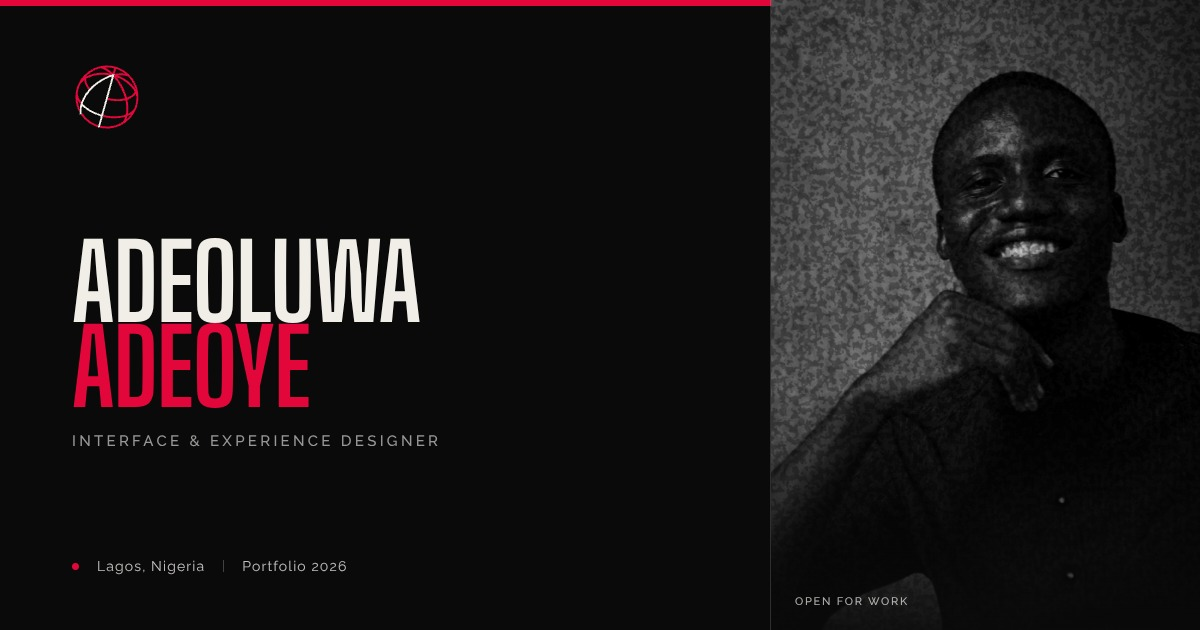
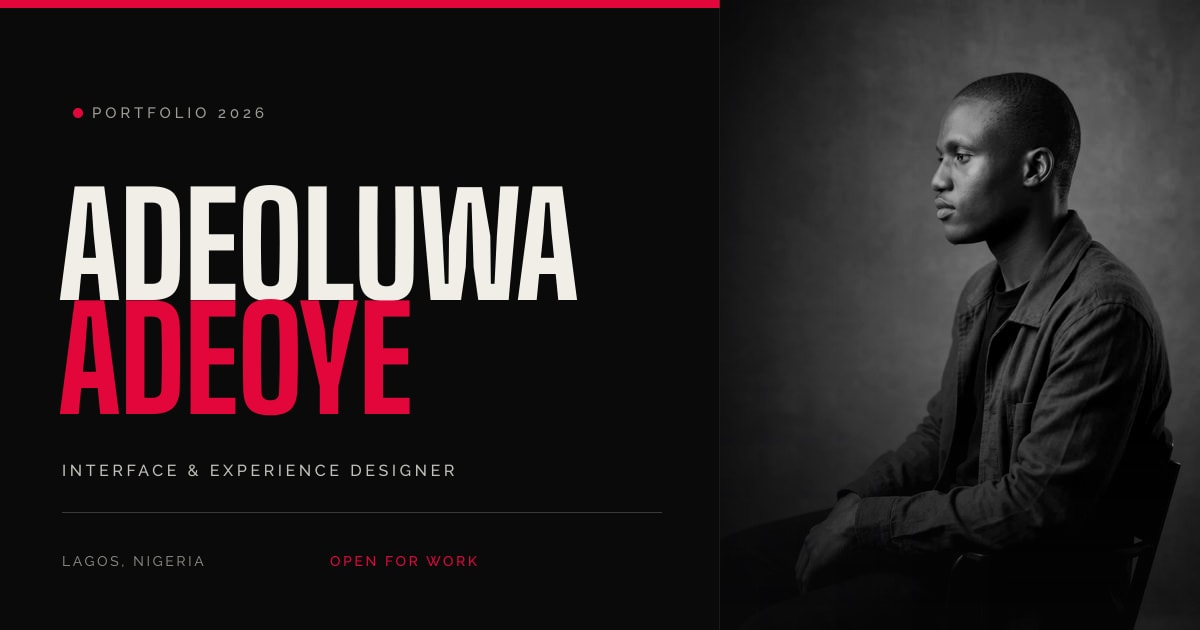
Update the portrait, share card and project rows from the latest feedback
Swap in the new studio portrait, rebuild the link preview around it and the
two brand fonts, restore the static project thumbnails in the selected work
list, and carry through the header, spacing, cursor and contact refinements.

🤖 Generated with Codebuff

diff --git a/src/pages/Home.jsx b/src/pages/Home.jsx
@@ -6,7 +6,7 @@ import Reveal from "../components/Reveal";
 import ProjectIndex from "../components/ProjectIndex";
 import CTA from "../components/CTA";
 import { projects } from "../data/projects";
-import { capabilities, credentia, experience, site } from "../site";
+import { capabilities, credentia, experience } from "../site";
 import { usePageMeta } from "../hooks/usePageMeta";
 
 function Word({ children, progress, range }) {
@@ -49,16 +49,6 @@ export default function Home() {
       <section className="hero">
         <h1 className="sr-only">Adeoluwa Adeoye, Interface &amp; Experience Designer</h1>
 
-        <div className="shell hero__top">
-          <p className="hero__hello">
-            Hi, I&apos;m Adeoluwa, <span className="serif">interface &amp; experience</span>{" "}
-            designer.
-          </p>
-          <p className="hero__place">
-            Lagos, Nigeria<span className="hero__place-sep">/</span>Portfolio 2026
-          </p>
-        </div>
-
         <div className="hero__stage">
           <div className="hero__type">
             <div className="hero__line">
@@ -91,27 +81,11 @@ export default function Home() {
             <div className="hero__portrait-frame">
               <img
                 src="/assets/portrait.jpg"
-                alt="Adeoluwa Adeoye at his desk in Lagos"
+                alt="Adeoluwa Adeoye, interface and experience designer"
                 fetchPriority="high"
               />
             </div>
-            <figcaption>
-              <span>Lagos, NG</span>
-              <span aria-hidden="true">✳</span>
-            </figcaption>
           </figure>
-        </div>
-
-        <div className="shell hero__foot">
-          <p className="hero__intro">
-            I design digital products where clarity, motion and craft meet: interfaces that make
-            complex things feel obvious, and simple things feel considered.
-          </p>
-          <a className="scroll-cue" href="#work">
-            <span>Scroll to explore</span>
-            <span className="scroll-cue__line" />
-            <span aria-hidden="true">↓</span>
-          </a>
         </div>
       </section>
 
@@ -120,18 +94,13 @@ export default function Home() {
           <p className="eyebrow">(01) About</p>
           <div className="intro__content">
             <Reveal as="p" className="intro__statement">
-              I&apos;m a designer who likes the <span className="serif">in&#8209;between</span>:
-              the place where a business problem becomes a flow, a flow becomes an interface, and
-              an interface starts to feel like a product people trust.
+              I&apos;m a designer who likes the{" "}
+              <span className="serif serif--plain">in&#8209;between</span>: the place where a
+              business problem becomes a flow, a flow becomes an interface, and an interface starts
+              to feel like a product people trust.
             </Reveal>
 
             <Reveal className="intro__row" delay={120}>
-              <p className="intro__copy">
-                Curiosity brought me here: a habit of asking how things work, why people behave
-                the way they do, and what happens if we try it another way. I work across
-                experience design, interface systems and graphic design, from early-stage ideas
-                to live platforms.
-              </p>
               <Link to="/about" className="link-arrow" data-cursor="Read">
                 More about me <span>↗</span>
               </Link>

diff --git a/src/components/Cursor.jsx b/src/components/Cursor.jsx
@@ -2,11 +2,12 @@ import { useEffect, useRef, useState } from "react";
 
 export default function Cursor() {
   const dotRef = useRef(null);
-  const ringRef = useRef(null);
+  const ringNodeRef = useRef(null);
   const [enabled, setEnabled] = useState(false);
   const [label, setLabel] = useState("");
   const [active, setActive] = useState(false);
   const [moved, setMoved] = useState(false);
+  const [fast, setFast] = useState(false);
 
   useEffect(() => {
     if (!window.matchMedia("(pointer: fine)").matches) return undefined;
@@ -15,6 +16,8 @@ export default function Cursor() {
 
     const pointer = { x: window.innerWidth / 2, y: window.innerHeight / 2 };
     const ring = { x: pointer.x, y: pointer.y };
+    let last = { x: pointer.x, y: pointer.y, t: performance.now() };
+    let fastTimer;
     let frame;
 
     const onMove = (event) => {
@@ -24,13 +27,27 @@ export default function Cursor() {
       if (dotRef.current) {
         dotRef.current.style.transform = `translate3d(${pointer.x}px, ${pointer.y}px, 0)`;
       }
+
+      // Speed check: flag a fast wiggle so the ring flares and stays findable.
+      const now = performance.now();
+      const dt = now - last.t;
+      if (dt > 0) {
+        const dist = Math.hypot(pointer.x - last.x, pointer.y - last.y);
+        const speed = dist / dt; // px per ms
+        if (speed > 1.1) {
+          setFast(true);
+          window.clearTimeout(fastTimer);
+          fastTimer = window.setTimeout(() => setFast(false), 200);
+        }
+      }
+      last = { x: pointer.x, y: pointer.y, t: now };
     };
 
     const render = () => {
       ring.x += (pointer.x - ring.x) * 0.16;
       ring.y += (pointer.y - ring.y) * 0.16;
-      if (ringRef.current) {
-        ringRef.current.style.transform = `translate3d(${ring.x}px, ${ring.y}px, 0)`;
+      if (ringNodeRef.current) {
+        ringNodeRef.current.style.transform = `translate3d(${ring.x}px, ${ring.y}px, 0)`;
       }
       frame = requestAnimationFrame(render);
     };
@@ -49,11 +66,11 @@ export default function Cursor() {
 
     const onLeave = () => {
       if (dotRef.current) dotRef.current.style.opacity = "0";
-      if (ringRef.current) ringRef.current.style.opacity = "0";
+      if (ringNodeRef.current) ringNodeRef.current.style.opacity = "0";
     };
     const onEnter = () => {
       if (dotRef.current) dotRef.current.style.opacity = "1";
-      if (ringRef.current) ringRef.current.style.opacity = "1";
+      if (ringNodeRef.current) ringNodeRef.current.style.opacity = "1";
     };
 
     window.addEventListener("mousemove", onMove, { passive: true });
@@ -63,6 +80,7 @@ export default function Cursor() {
 
     return () => {
       cancelAnimationFrame(frame);
+      window.clearTimeout(fastTimer);
       window.removeEventListener("mousemove", onMove);
       document.removeEventListener("mouseover", onOver);
       document.removeEventListener("mouseleave", onLeave);
@@ -76,7 +94,10 @@ export default function Cursor() {
   return (
     <div className={`cursor ${moved ? "is-ready" : ""}`} aria-hidden="true">
       <div className="cursor__dot" ref={dotRef} />
-      <div className={`cursor__ring ${active ? "is-active" : ""}`} ref={ringRef}>
+      <div
+        className={`cursor__ring ${active ? "is-active" : ""} ${fast ? "is-fast" : ""}`}
+        ref={ringNodeRef}
+      >
         <span>{label}</span>
       </div>
     </div>

diff --git a/src/styles/main.css b/src/styles/main.css
@@ -237,7 +237,7 @@ button {
 }
 
 .section {
-  padding-block: clamp(56px, 6.5vw, 104px);
+  padding-block: clamp(74px, 9vw, 142px);
 }
 
 .serif {
@@ -254,6 +254,11 @@ button {
   font-style: italic;
   font-weight: 400;
   text-transform: none;
+}
+
+/* Same display face, but reads as body text (no accent colour). */
+.serif--plain {
+  color: inherit;
 }
 
 .asterisk {
@@ -513,6 +518,17 @@ button {
 .cursor__ring.is-active span {
   opacity: 1;
 }
+
+/* Fast "wiggle" flare so the pointer stays easy to track on dark themes. */
+.cursor__ring.is-fast:not(.is-active) {
+  width: 62px;
+  height: 62px;
+  margin: -31px 0 0 -31px;
+  border-color: var(--accent);
+  box-shadow: 0 0 0 6px color-mix(in srgb, var(--accent) 18%, transparent);
+}
+
+
 
 /* ------------------------------------------------------------------
    Loader
@@ -1102,10 +1118,10 @@ body.is-locked .marquee__track {
 
 .intro__row {
   display: flex;
-  justify-content: space-between;
+  justify-content: flex-end;
   align-items: flex-end;
   gap: 48px;
-  margin-top: clamp(36px, 4.5vw, 64px);
+  margin-top: clamp(24px, 3vw, 40px);
 }
 
 .intro__copy {
@@ -2524,10 +2540,9 @@ body.is-locked .marquee__track {
 
 .chat {
   border: 1px solid var(--line);
-  border-radius: 14px;
+  border-radius: 20px;
   background: var(--surface);
   overflow: hidden;
-  box-shadow: 0 40px 90px -70px rgba(0, 0, 0, 0.9);
 }
 
 .chat__head {

diff --git a/src/pages/Contact.jsx b/src/pages/Contact.jsx
@@ -122,7 +122,7 @@ export default function Contact() {
                 </span>
                 <div>
                   <p className="chat__name">Adeoluwa Adeoye</p>
-                  <p className="chat__meta">Usually replies within a day</p>
+                  <p className="chat__meta">Usually replies within a couple of hours</p>
                 </div>
                 <span className="chat__channel">{whatsappHref ? "WhatsApp" : "Email"}</span>
               </div>
@@ -206,7 +206,7 @@ export default function Contact() {
                 </div>
                 <div>
                   <dt>Response</dt>
-                  <dd>Usually within a couple of days.</dd>
+                  <dd>Usually within a couple of hours.</dd>
                 </div>
                 <div>
                   <dt>Based in</dt>

diff --git a/src/pages/About.jsx b/src/pages/About.jsx
@@ -46,7 +46,7 @@ export default function About() {
             <Reveal className="about-intro__media" delay={120}>
               <img
                 src="/assets/portrait.jpg"
-                alt="Adeoluwa Adeoye at his desk in Lagos"
+                alt="Adeoluwa Adeoye, interface and experience designer"
                 loading="lazy"
               />
               <figcaption>

diff --git a/src/components/Logo.jsx b/src/components/Logo.jsx
@@ -16,7 +16,7 @@ export default function Logo({ size = 32, className = "", title = "AdE" }) {
       aria-label={title}
     >
       <path d={RED} fill="currentColor" fillRule="evenodd" />
-      <path d={WHITE} fill="var(--logo-accent, #ffffff)" fillRule="evenodd" />
+      <path d={WHITE} fill="currentColor" fillRule="evenodd" />
     </svg>
   );
 }
